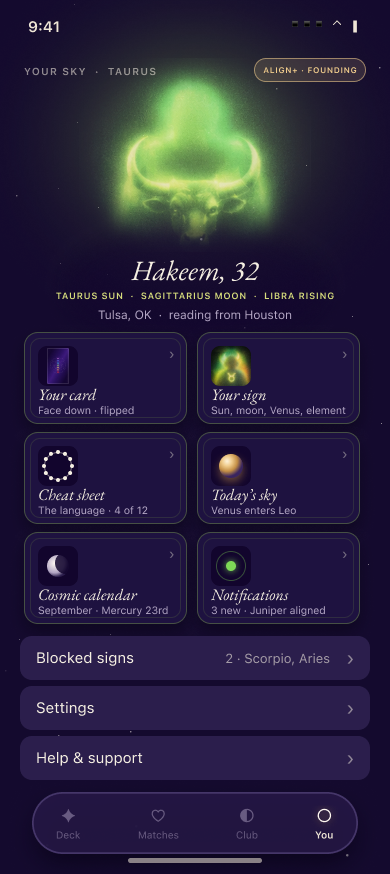
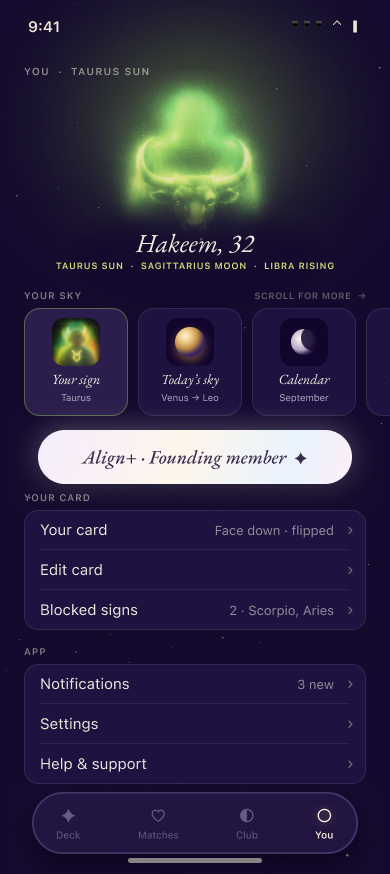
G-05 hub on the Stardust settings pattern: section headers, card carousel, pearl CTA, grouped panels
Claude-Session: https://claude.ai/code/session_016YjMTARDAwfH7MsqGSPAVh

diff --git a/design/scores.md b/design/scores.md
@@ -407,3 +407,18 @@ The hub is back to the Taurus-keyline version. Spacing: eyebrow `YOUR SKY ·
 TAURUS` left-aligned at x 24 so it clears the Align+ pill; tiles from y 332
 at 92 tall with an 8px gap; rows 12px below the tiles with 6px between,
 the last row ending 12px above the tab bar.
+
+### G-05 hub — the Stardust settings pattern (2026-09-22, founder note)
+
+"Use Appllama and look at Stardust and make this screen better." Fetched
+Stardust's own hub, *Your Settings* (`oth_zgx1n` Profile Settings,
+`oth_qh0ga` General Settings, `oth_pc4wa` Personal Details; 3 credits). It
+does four things ours didn't: caps section headers with a *scroll for more*
+hint, a horizontal carousel of illustrated feature cards, one glowing
+rainbow CTA between sections, and grouped list panels with hairline
+dividers rather than separate pill rows. The hub now follows it under the
+figure hero: `YOUR SKY` + a card carousel (Your sign · Today's sky ·
+Calendar · Cheat sheet, the fourth peeking off the edge), the pearl holo
+`Align+ · Founding member ✦` as the one glowing element, `YOUR CARD` panel
+(Your card · Edit card · Blocked signs) and `APP` panel (Notifications ·
+Settings · Help & support), rows 40 tall, ending 8px above the tab bar.
